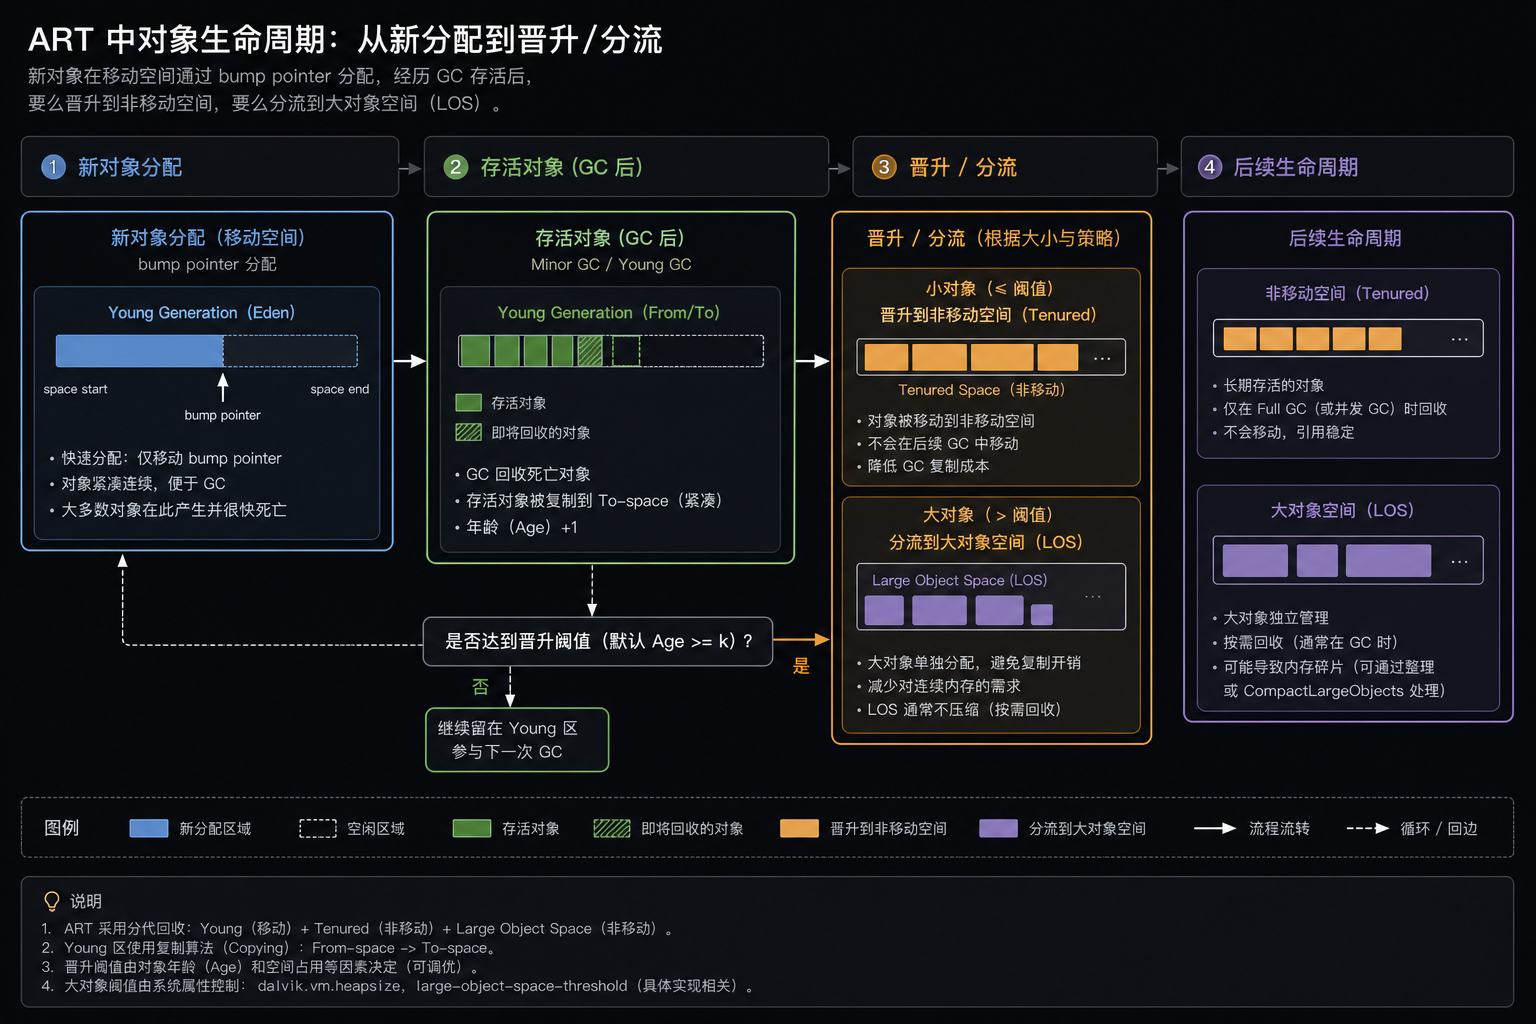
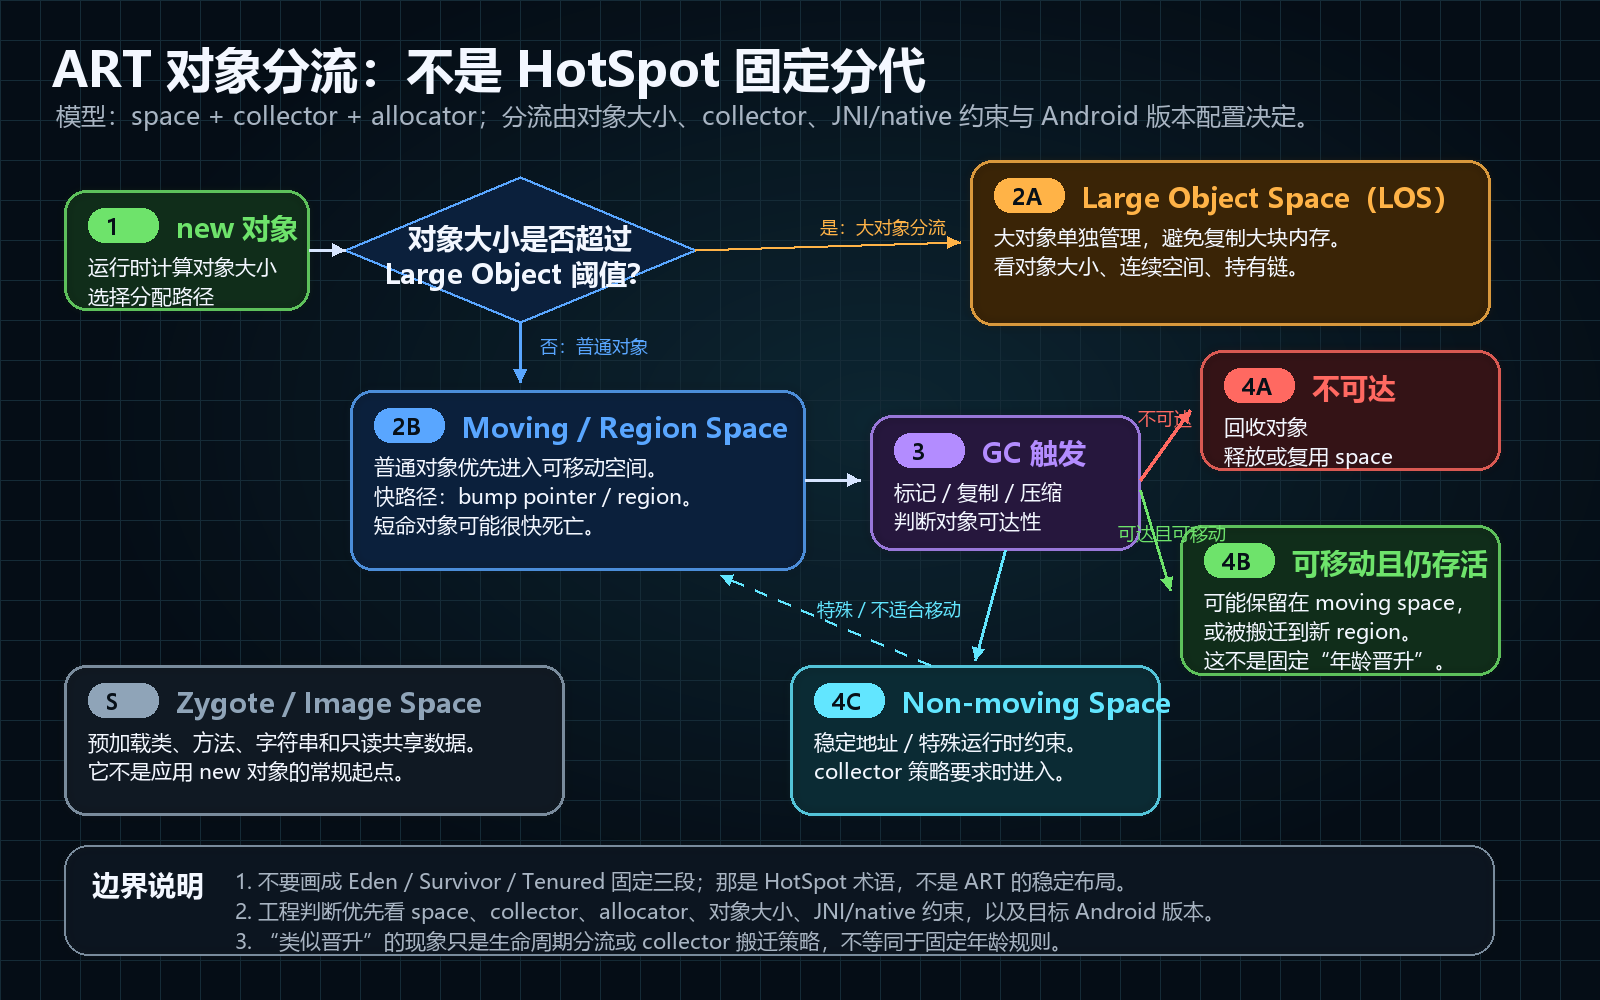
docs: correct ART object flow diagram

diff --git a/docs/week-01/day01-art-heap-structure.md b/docs/week-01/day01-art-heap-structure.md
@@ -78,7 +78,7 @@ space 的实现集中在：
 
 ![对象从 moving space 分流到 non-moving 或 LOS 的示意](images/art-promotion-flow.png)
 
-> 图中 “Young / Tenured” 是帮助理解生命周期分流的近似标注，不表示 ART 固定采用 HotSpot 式 Eden / Survivor / Tenured 三段布局。实际判断仍以 space、collector、对象大小和目标 Android 版本为准。
+> 这张图刻意不画 Eden / Survivor / Tenured，因为那是 HotSpot 的固定分代语言。ART 里更稳妥的判断方式是看 space、collector、allocator、对象大小和目标 Android 版本配置。
 
 ### 4）为什么这个结构对性能与 OOM 排查很关键
 